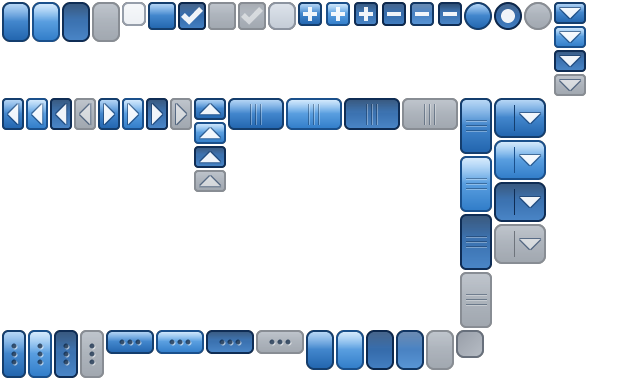
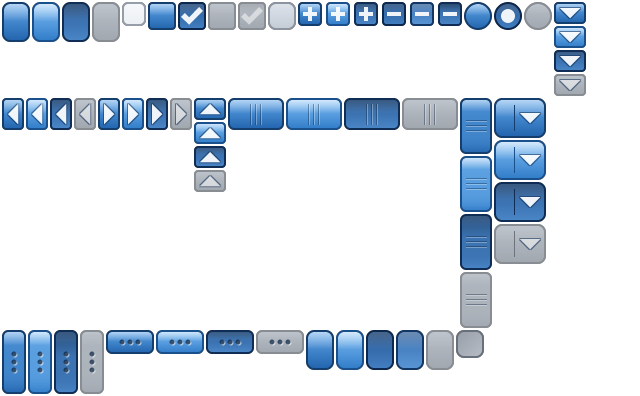
WidgetKit: GlossyBlue, work in progress #2.

Changed region(s): [[0.0, 0.0, 0.9375, 0.7237], [0.0, 0.7526, 0.7812, 0.9842], [0.0, 0.0868, 0.1875, 0.1158]]

diff --git a/widgetkit-src/glossyblue/preview.html b/widgetkit-src/glossyblue/preview.html
@@ -78,9 +78,9 @@
 <h2>ScrollbarHandleY</h2>
 <div class='meta'>states: Default, Hovered, Pressed, Disabled &middot; size_pts: [16, 28] &middot; frame_pts: [7, 8, 7, 8] &middot; padding_pts: 6 &middot; <span class='ok'>rigidPartY 8..20pts (All) held rigid below</span></div>
 <div class='row'>
[6 lines of base64/hex data omitted]
 </div>
 <h2>SelectBox</h2>
 <div class='meta'>states: Default, Hovered, Pressed, Disabled &middot; size_pts: [26, 20] &middot; frame_pts: [5, 18, 5, 5] &middot; padding_pts: [3, 18, 3, 5] &middot; <span class='ok'>rigidPartY 7..13pts (Right) held rigid below</span></div>
@@ -90,11 +90,11 @@
[1 lines of base64/hex data omitted]
 </div>
 <h2>SplitHandleX</h2>
-<div class='meta'>states: Default, Hovered, Pressed, Disabled &middot; size_pts: [12, 24] &middot; frame_pts: 3 &middot; padding_pts: 3 &middot; <span class='ok'>rigidPartX 4..8pts (All) held rigid below</span> &middot; <span class='ok'>rigidPartY 6..18pts (All) held rigid below</span></div>
+<div class='meta'>states: Default, Hovered, Pressed, Disabled &middot; size_pts: [12, 32] &middot; frame_pts: [8, 3, 8, 3] &middot; padding_pts: 3 &middot; <span class='ok'>rigidPartX 4..8pts (All) held rigid below</span> &middot; <span class='ok'>rigidPartY 10..22pts (All) held rigid below</span></div>
 <div class='row'>
[6 lines of base64/hex data omitted]
 </div>
 <h2>SplitHandleY</h2>
 <div class='meta'>states: Default, Hovered, Pressed, Disabled &middot; size_pts: [24, 12] &middot; frame_pts: 3 &middot; padding_pts: 3 &middot; <span class='ok'>rigidPartY 4..8pts (All) held rigid below</span> &middot; <span class='ok'>rigidPartX 6..18pts (All) held rigid below</span></div>

diff --git a/widgetkit-src/glossyblue/wg_glossyblue.h b/widgetkit-src/glossyblue/wg_glossyblue.h
@@ -75,11 +75,11 @@ namespace wg::glossyblue
 		inline const Color	Accent = Color(33,100,173);			// The theme's blue accent, for app code that wants to match it.
 		inline const Color	AccentHovered = Color(48,124,200);
 
-		// Background behind selected text. Same hue family as Accent but light
-		// enough to keep BLACK text on it -- the selection leaves the glyph
-		// colour alone (see TextLayouts below), so this must carry the
-		// contrast on its own. ~10.6:1 against black.
-		inline const Color	TextSelection = Color(137,190,238);
+		// Selected text: white on a saturated theme blue (between Accent and
+		// AccentHovered). 5.6:1 contrast, and both colours are painted with
+		// BlendMode::Replace so they do not depend on the widget's tint.
+		inline const Color	TextSelection = Color(40,105,180);
+		inline const Color	TextSelectionText = Color::White;
 	}
 
 	namespace TextSizes
@@ -235,24 +235,32 @@ namespace wg::glossyblue
 		// BasicTextLayout's selection defaults are selectionBackBlend =
 		// BlendMode::Invert and selectionCharBlend = BlendMode::Invert, which
 		// literally inverts whatever is behind the selection -- on a light
-		// canvas that comes out a muddy dark grey. Paint a theme blue instead
-		// and leave the glyph colour alone: BlendMode::Ignore returns the
-		// text's own tint unchanged (HiColor::blend returns baseColor for it),
-		// so black text stays black on TextSelection.
+		// canvas that comes out a muddy dark grey.
+		//
+		// Both are Replace, deliberately. Replace is "completely opaque,
+		// ignoring alpha of source and TINT-COLOR", so the selection fill
+		// lands as exactly TextSelection and the glyphs as exactly
+		// TextSelectionText, whatever tint the editor happens to have set.
+		// BlendMode::Blend would modulate the fill by that tint, and
+		// BlendMode::Ignore on the chars would hand back the text's own
+		// colour (HiColor::blend returns baseColor for it) -- leaving
+		// selected glyphs rendered identically to unselected ones.
 		TextLayouts::LeftNoWrap = BasicTextLayout::create(WGBP(BasicTextLayout,
 			_.autoEllipsis = true,
 			_.placement = Placement::West,
-			_.selectionBackBlend = BlendMode::Blend,
+			_.selectionBackBlend = BlendMode::Replace,
 			_.selectionBackColor = Colors::TextSelection,
-			_.selectionCharBlend = BlendMode::Ignore,
+			_.selectionCharBlend = BlendMode::Replace,
+			_.selectionCharColor = Colors::TextSelectionText,
 			_.wrap = false));
 
 		TextLayouts::CenteredNoWrap = BasicTextLayout::create(WGBP(BasicTextLayout,
 			_.autoEllipsis = true,
 			_.placement = Placement::Center,
-			_.selectionBackBlend = BlendMode::Blend,
+			_.selectionBackBlend = BlendMode::Replace,
 			_.selectionBackColor = Colors::TextSelection,
-			_.selectionCharBlend = BlendMode::Ignore,
+			_.selectionCharBlend = BlendMode::Replace,
+			_.selectionCharColor = Colors::TextSelectionText,
 			_.wrap = false));
 
 		Transitions::openClose = ValueTransition::create(250000);
@@ -435,13 +443,13 @@ namespace wg::glossyblue
 
 		Skins::SplitHandleX = BlockSkin::create(WGBP(BlockSkin,
 			_.surface = pSkinBlocks,
-			_.firstBlock = { 1,165,12,24 },
+			_.firstBlock = { 1,165,12,32 },
 			_.axis = Axis::X,
 			_.blockSpacing = 1,
-			_.frame = 3,
+			_.frame = { 8,3,8,3 },
 			_.padding = 3,
 			_.rigidPartX = {4,4,YSections::All},
-			_.rigidPartY = {6,12,XSections::All},
+			_.rigidPartY = {10,12,XSections::All},
 			_.states = { State::Default, State::Hovered, State::Pressed, State::Disabled }
 		));
 

diff --git a/widgetkit-src/glossyblue/header_shell.h b/widgetkit-src/glossyblue/header_shell.h
@@ -75,11 +75,11 @@ namespace wg::glossyblue
 		inline const Color	Accent = Color(33,100,173);			// The theme's blue accent, for app code that wants to match it.
 		inline const Color	AccentHovered = Color(48,124,200);
 
-		// Background behind selected text. Same hue family as Accent but light
-		// enough to keep BLACK text on it -- the selection leaves the glyph
-		// colour alone (see TextLayouts below), so this must carry the
-		// contrast on its own. ~10.6:1 against black.
-		inline const Color	TextSelection = Color(137,190,238);
+		// Selected text: white on a saturated theme blue (between Accent and
+		// AccentHovered). 5.6:1 contrast, and both colours are painted with
+		// BlendMode::Replace so they do not depend on the widget's tint.
+		inline const Color	TextSelection = Color(40,105,180);
+		inline const Color	TextSelectionText = Color::White;
 	}
 
 	namespace TextSizes
@@ -235,24 +235,32 @@ namespace wg::glossyblue
 		// BasicTextLayout's selection defaults are selectionBackBlend =
 		// BlendMode::Invert and selectionCharBlend = BlendMode::Invert, which
 		// literally inverts whatever is behind the selection -- on a light
-		// canvas that comes out a muddy dark grey. Paint a theme blue instead
-		// and leave the glyph colour alone: BlendMode::Ignore returns the
-		// text's own tint unchanged (HiColor::blend returns baseColor for it),
-		// so black text stays black on TextSelection.
+		// canvas that comes out a muddy dark grey.
+		//
+		// Both are Replace, deliberately. Replace is "completely opaque,
+		// ignoring alpha of source and TINT-COLOR", so the selection fill
+		// lands as exactly TextSelection and the glyphs as exactly
+		// TextSelectionText, whatever tint the editor happens to have set.
+		// BlendMode::Blend would modulate the fill by that tint, and
+		// BlendMode::Ignore on the chars would hand back the text's own
+		// colour (HiColor::blend returns baseColor for it) -- leaving
+		// selected glyphs rendered identically to unselected ones.
 		TextLayouts::LeftNoWrap = BasicTextLayout::create(WGBP(BasicTextLayout,
 			_.autoEllipsis = true,
 			_.placement = Placement::West,
-			_.selectionBackBlend = BlendMode::Blend,
+			_.selectionBackBlend = BlendMode::Replace,
 			_.selectionBackColor = Colors::TextSelection,
-			_.selectionCharBlend = BlendMode::Ignore,
+			_.selectionCharBlend = BlendMode::Replace,
+			_.selectionCharColor = Colors::TextSelectionText,
 			_.wrap = false));
 
 		TextLayouts::CenteredNoWrap = BasicTextLayout::create(WGBP(BasicTextLayout,
 			_.autoEllipsis = true,
 			_.placement = Placement::Center,
-			_.selectionBackBlend = BlendMode::Blend,
+			_.selectionBackBlend = BlendMode::Replace,
 			_.selectionBackColor = Colors::TextSelection,
-			_.selectionCharBlend = BlendMode::Ignore,
+			_.selectionCharBlend = BlendMode::Replace,
+			_.selectionCharColor = Colors::TextSelectionText,
 			_.wrap = false));
 
 		Transitions::openClose = ValueTransition::create(250000);

diff --git a/widgetkit-src/common/theme_lib.py b/widgetkit-src/common/theme_lib.py
@@ -52,9 +52,26 @@ def ellipse_mask(size, inset=0.0):
     return img.resize((w, h), Image.BOX)
 
 
-def vgrad(size, top_rgb, bottom_rgb, top_a=255, bottom_a=255):
+def vgrad(size, top_rgb, bottom_rgb, top_a=255, bottom_a=255, ease=1.0):
+    """Vertical gradient. `ease` > 1 concentrates the colour change at the TOP
+    and BOTTOM edges and flattens the middle.
+
+    This matters for any block that is stretched along the gradient with a
+    rigidPart in the middle. There the middle band is cut into a rigid run
+    plus two thin flanks, and each flank stretches from a 1-2pt source slice
+    -- so a linear gradient renders as a flat bright region, a rapid
+    transition across the rigid run, and a flat dark region. Pushing the
+    change into the frames (which never stretch) leaves the middle nearly
+    uniform, so stretching it is invisible.
+
+    The remap is 0.5 + 0.5*sign(u)*|u|^ease for u = 2t-1: it fixes t at 0,
+    0.5 and 1, and its slope at the midpoint is zero for ease > 1.
+    """
     w, h = size
     t = np.linspace(0, 1, h).reshape(h, 1)
+    if ease != 1.0:
+        u = 2.0 * t - 1.0
+        t = 0.5 + 0.5 * np.sign(u) * np.abs(u) ** ease
     top = np.array(top_rgb, dtype=np.float32)
     bot = np.array(bottom_rgb, dtype=np.float32)
     rgb = (top * (1 - t) + bot * t).astype(np.uint8)
@@ -75,14 +92,15 @@ def diag_grad(size, dark_rgb, light_rgb):
     return Image.fromarray(np.concatenate([rgb, alpha], axis=2), mode="RGBA")
 
 
-def raised_panel(w, h, radius, palette, border=1.4, gloss_alpha=150, gloss_frac=0.5, shape="rect"):
+def raised_panel(w, h, radius, palette, border=1.4, gloss_alpha=150, gloss_frac=0.5,
+                 shape="rect", ease=1.0):
     mask_fn = ellipse_mask if shape == "ellipse" else (lambda sz, inset=0.0: rounded_rect_mask(sz, radius, inset))
     outer = mask_fn((w, h))
     inner = mask_fn((w, h), inset=border)
 
     body = Image.new("RGBA", (w, h), (0, 0, 0, 0))
     body.paste(Image.new("RGBA", (w, h), tuple(palette["border"])), (0, 0), outer)
-    grad = vgrad((w, h), palette["top"], palette["bottom"])
+    grad = vgrad((w, h), palette["top"], palette["bottom"], ease=ease)
     body = Image.composite(grad, body, inner)
 
     if gloss_alpha > 0:

diff --git a/widgetkit-src/common/build.py b/widgetkit-src/common/build.py
@@ -66,7 +66,9 @@ def render_state_block(spec, palette, state, w_px, h_px, density):
     style = STATE_STYLE[state]
     pal = palette[style["pal"]]
     img = T.raised_panel(w_px, h_px, radius_px, pal, border=border_px,
-                          gloss_alpha=style["gloss"], shape=shape)
+                          gloss_alpha=style["gloss"], shape=shape,
+                          gloss_frac=spec.get("gloss_frac", 0.5),
+                          ease=spec.get("gradient_ease", 1.0))
     if style["inset"] > 0:
         img = T.inset_shade(img, w_px, h_px, radius_px, amount=style["inset"], shape=shape, border=border_px)
     if style["alpha"] < 1.0:
